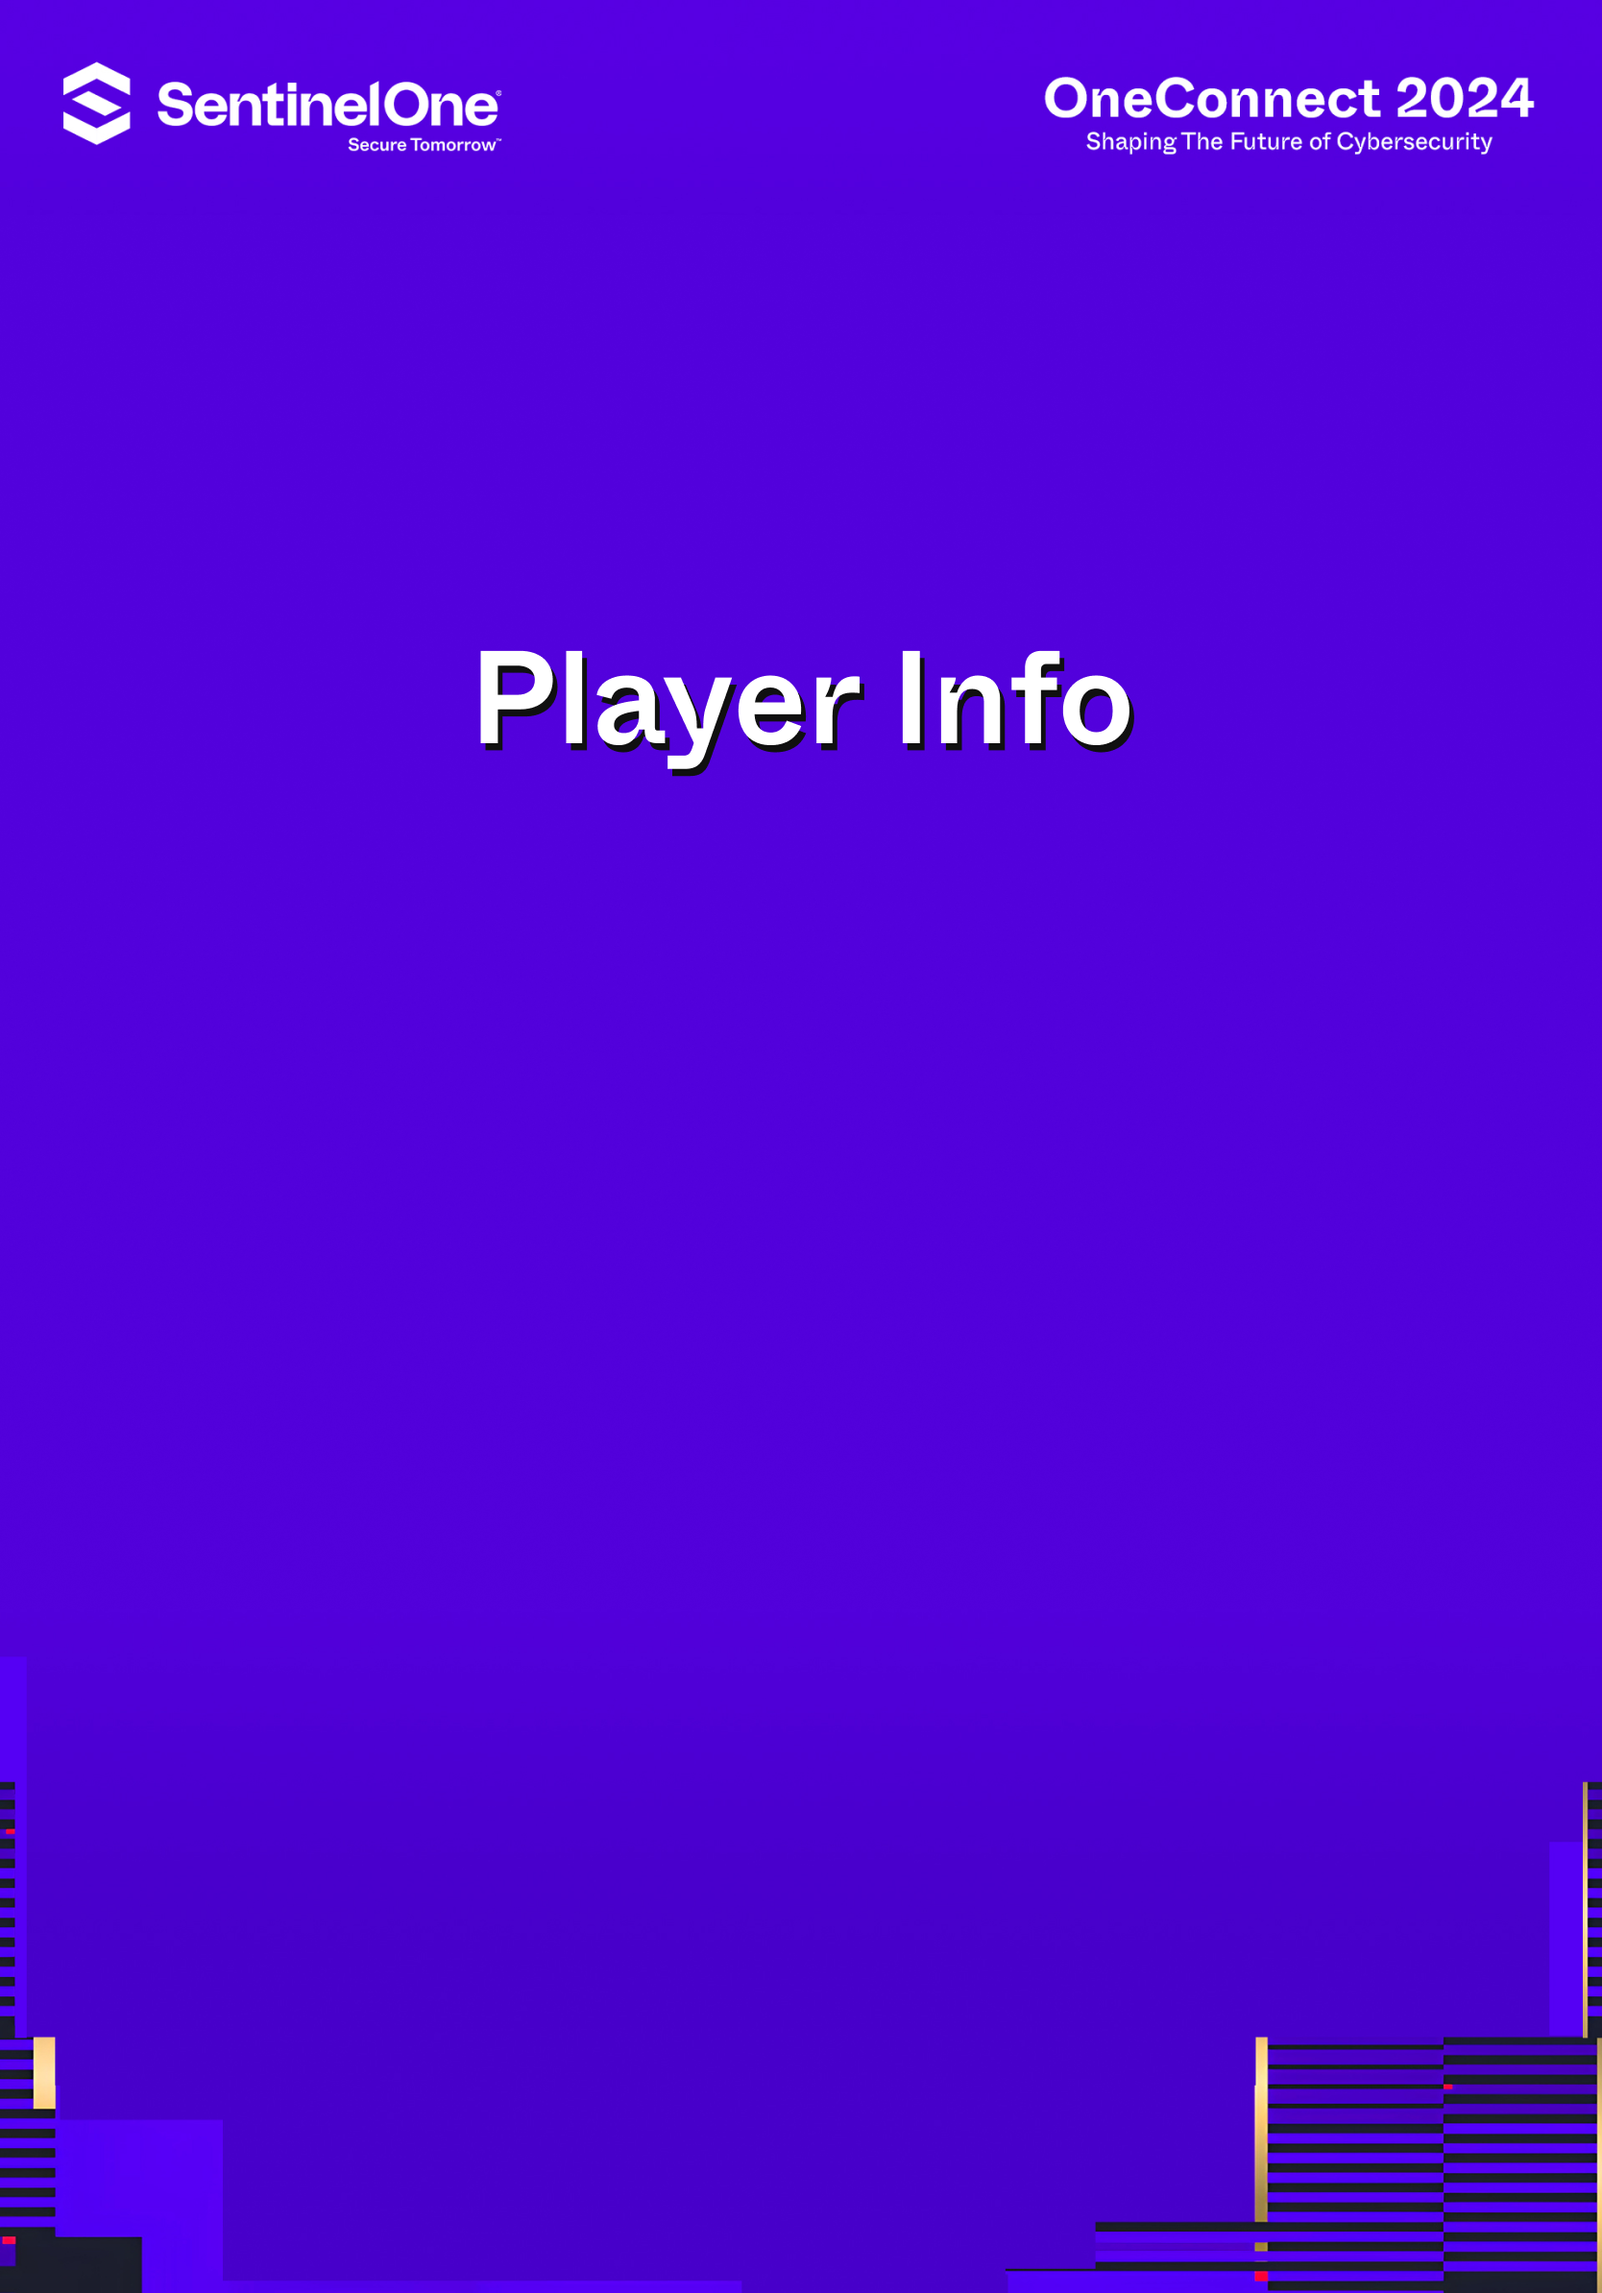
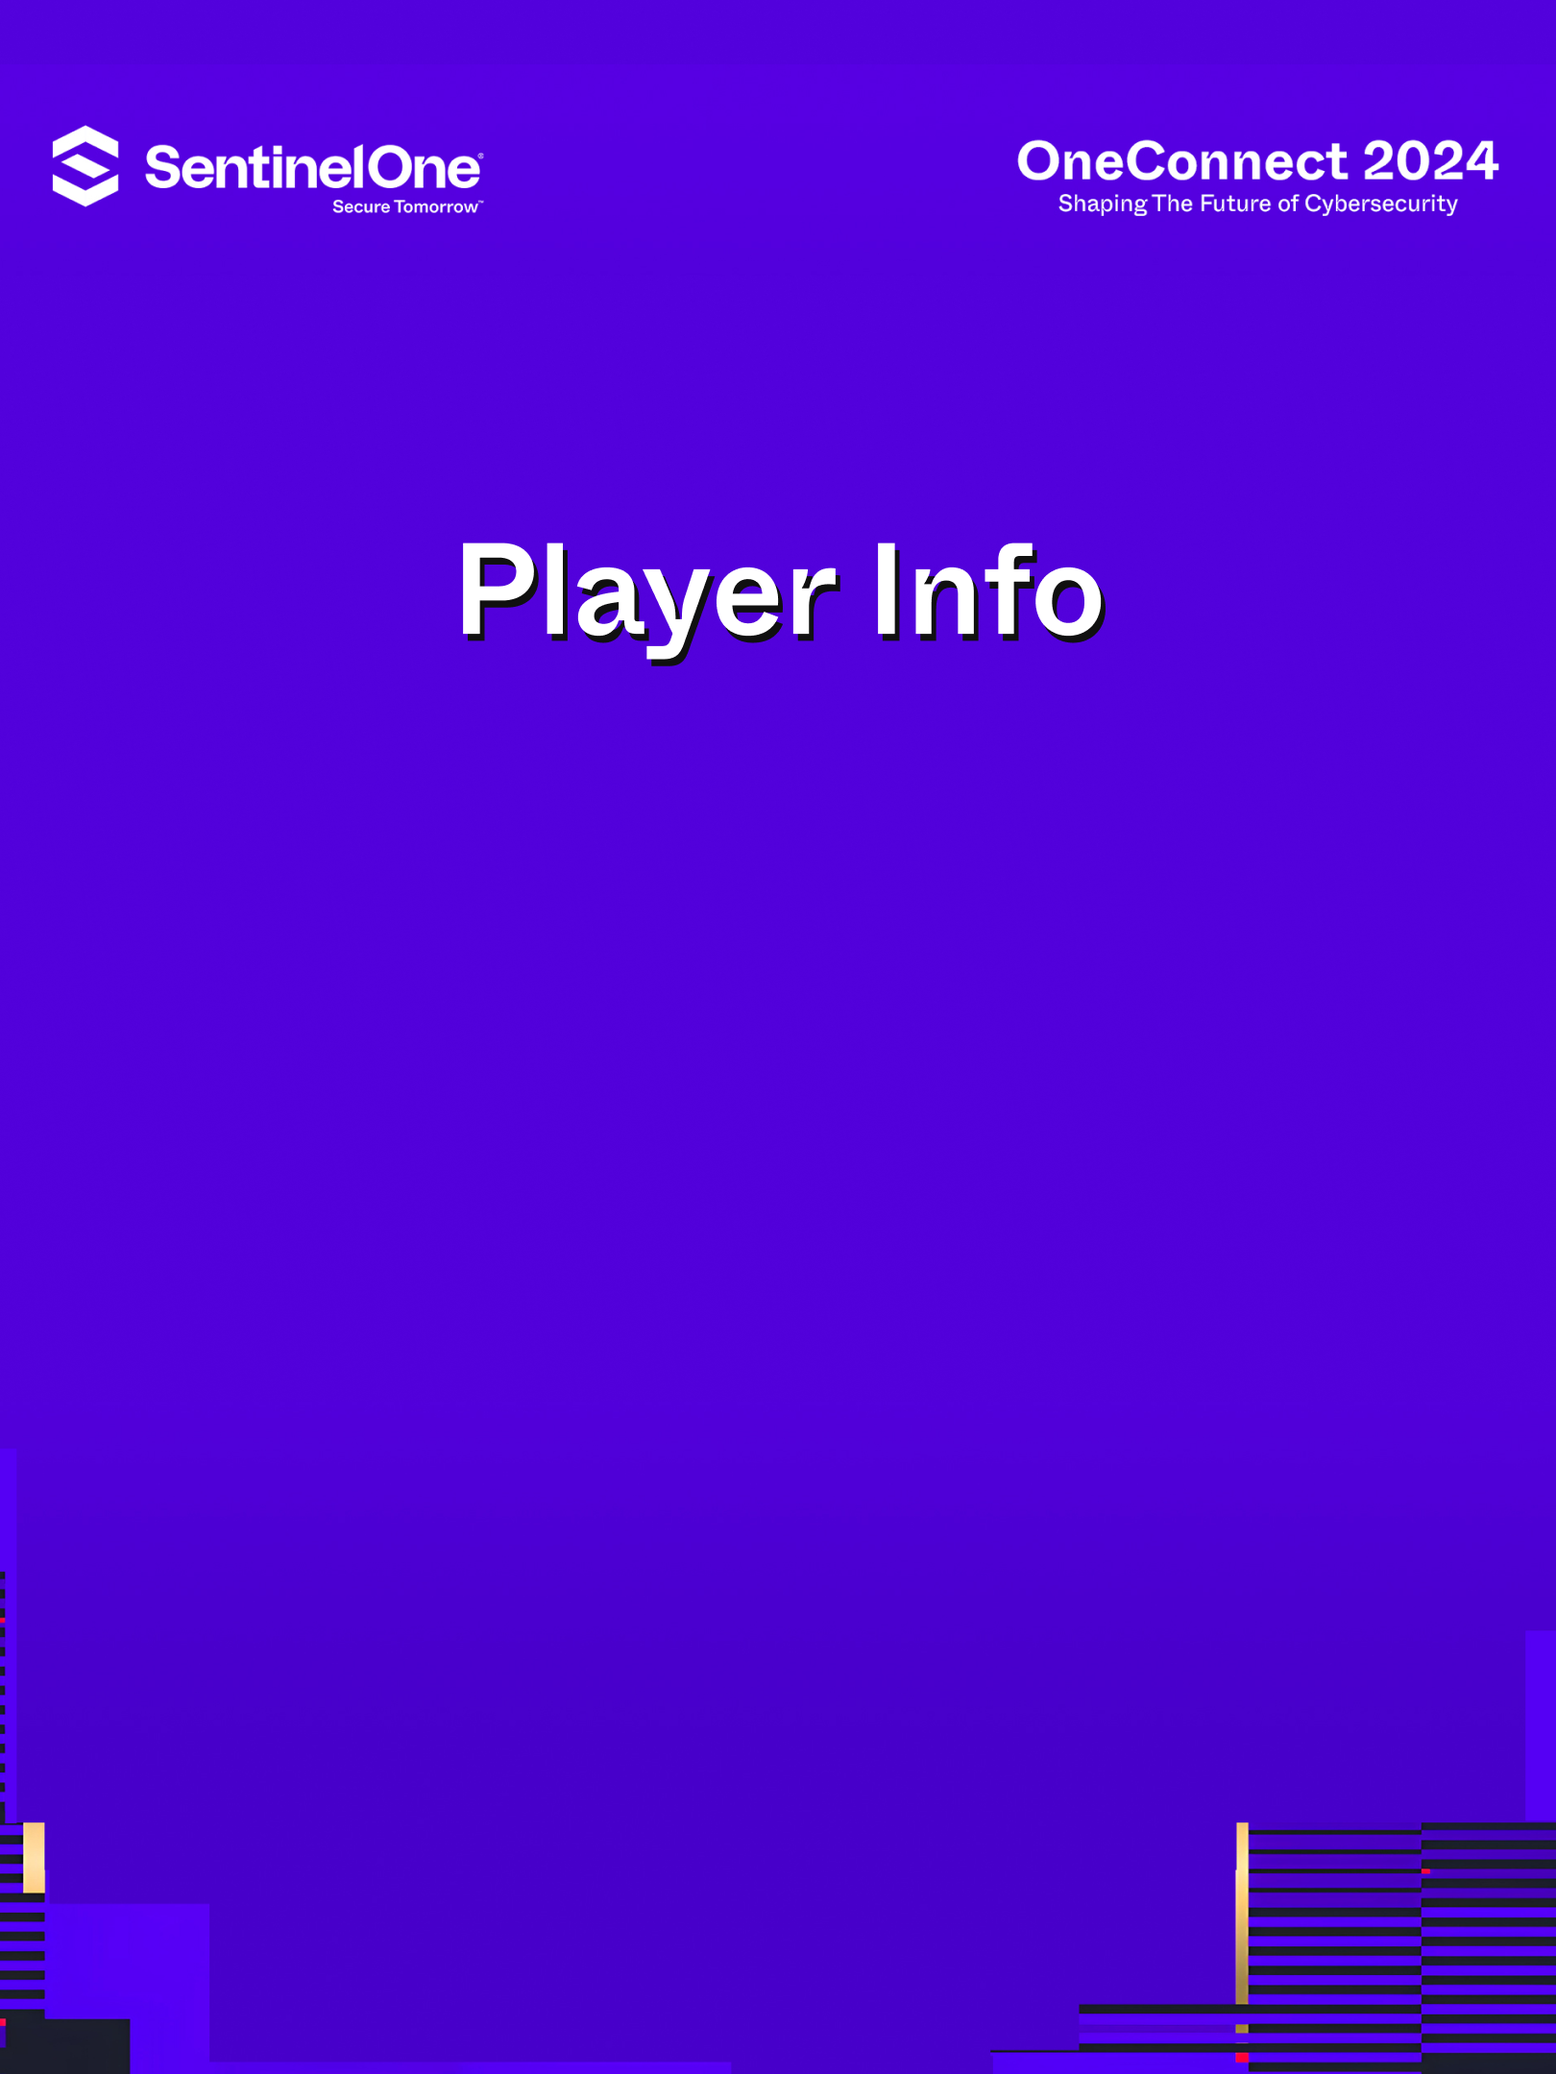
final one

diff --git a/app.js b/app.js
@@ -19,7 +19,7 @@ const db = new sqlite3.Database("winnerList.db", (err) => {
   }
 });
 
-db.run("CREATE TABLE IF NOT EXISTS users (id INTEGER PRIMARY KEY, name TEXT)");
+db.run("CREATE TABLE IF NOT EXISTS users (id INTEGER PRIMARY KEY, name TEXT,playerone TEXT, playertwo TEXT)");
 
 app.use(bodyParser.urlencoded({ extended: true }));
 app.use(bodyParser.json());
@@ -45,23 +45,40 @@ io.on("connection", function (socket) {
   //Writing 'S' to serial port to start and send name to main screen.
   socket.on("start", (e) => {
     console.log(e);
+    io.emit("getUser", e);
+
     usbport.write("s", function (err) {
       if (err) {
         return console.log("Error on write: ", err.message);
       }
       console.log("message written as " + "s");
-      io.emit("getUser", e);
     });
   });
 
   //Writing 'F' to serial port to stop.
-  socket.on("stop", (e) => {
+  socket.on("stop", () => {
+
+    console.log("stopp recivede ")
     usbport.write("f", function (err) {
       if (err) {
         return console.log("Error on write: ", err.message);
       }
       console.log("message written as " + "f");
     });
+  });
+
+  socket.on("savePlayers", (data) => {
+    db.run(
+      "INSERT INTO users (playerone, playertwo) VALUES (?, ?)",
+      [data.playerone, data.playertwo],
+      function (err) {
+        if (err) {
+          console.error("Error inserting data:", err.message);
+        } else {
+          console.log(`Row inserted with ID: ${this.lastID}`);
+        }
+      }
+    );
   });
 
   // Winner name wil be saved DB.
@@ -127,6 +144,12 @@ fs.readFile('selectedPort.json', (err, data) => {
       if (data == 1) {
         console.log("data from ardiono winner");
         io.emit("winnerOne");
+        usbport.write("f", function (err) {
+          if (err) {
+            return console.log("Error on write: ", err.message);
+          }
+          console.log("message written as " + "f");
+        });
       }
     });
 
@@ -142,7 +165,7 @@ fs.readFile('selectedPort.json', (err, data) => {
           if (err) {
             return console.log("Error on write: ", err.message);
           }
-          console.log("message written as " + "a");
+          // console.log("message written as " + "a");
         });
       }
 
@@ -151,7 +174,7 @@ fs.readFile('selectedPort.json', (err, data) => {
           if (err) {
             return console.log("Error on write: ", err.message);
           }
-          console.log("message written as " + "b");
+          // console.log("message written as " + "b");
         });
       }
 
@@ -160,7 +183,7 @@ fs.readFile('selectedPort.json', (err, data) => {
           if (err) {
             return console.log("Error on write: ", err.message);
           }
-          console.log("message written as " + "c");
+          // console.log("message written as " + "c");
         });
       }
 
@@ -169,7 +192,7 @@ fs.readFile('selectedPort.json', (err, data) => {
           if (err) {
             return console.log("Error on write: ", err.message);
           }
-          console.log("message written as " + "d");
+          // console.log("message written as " + "d");
         });
       }
 
